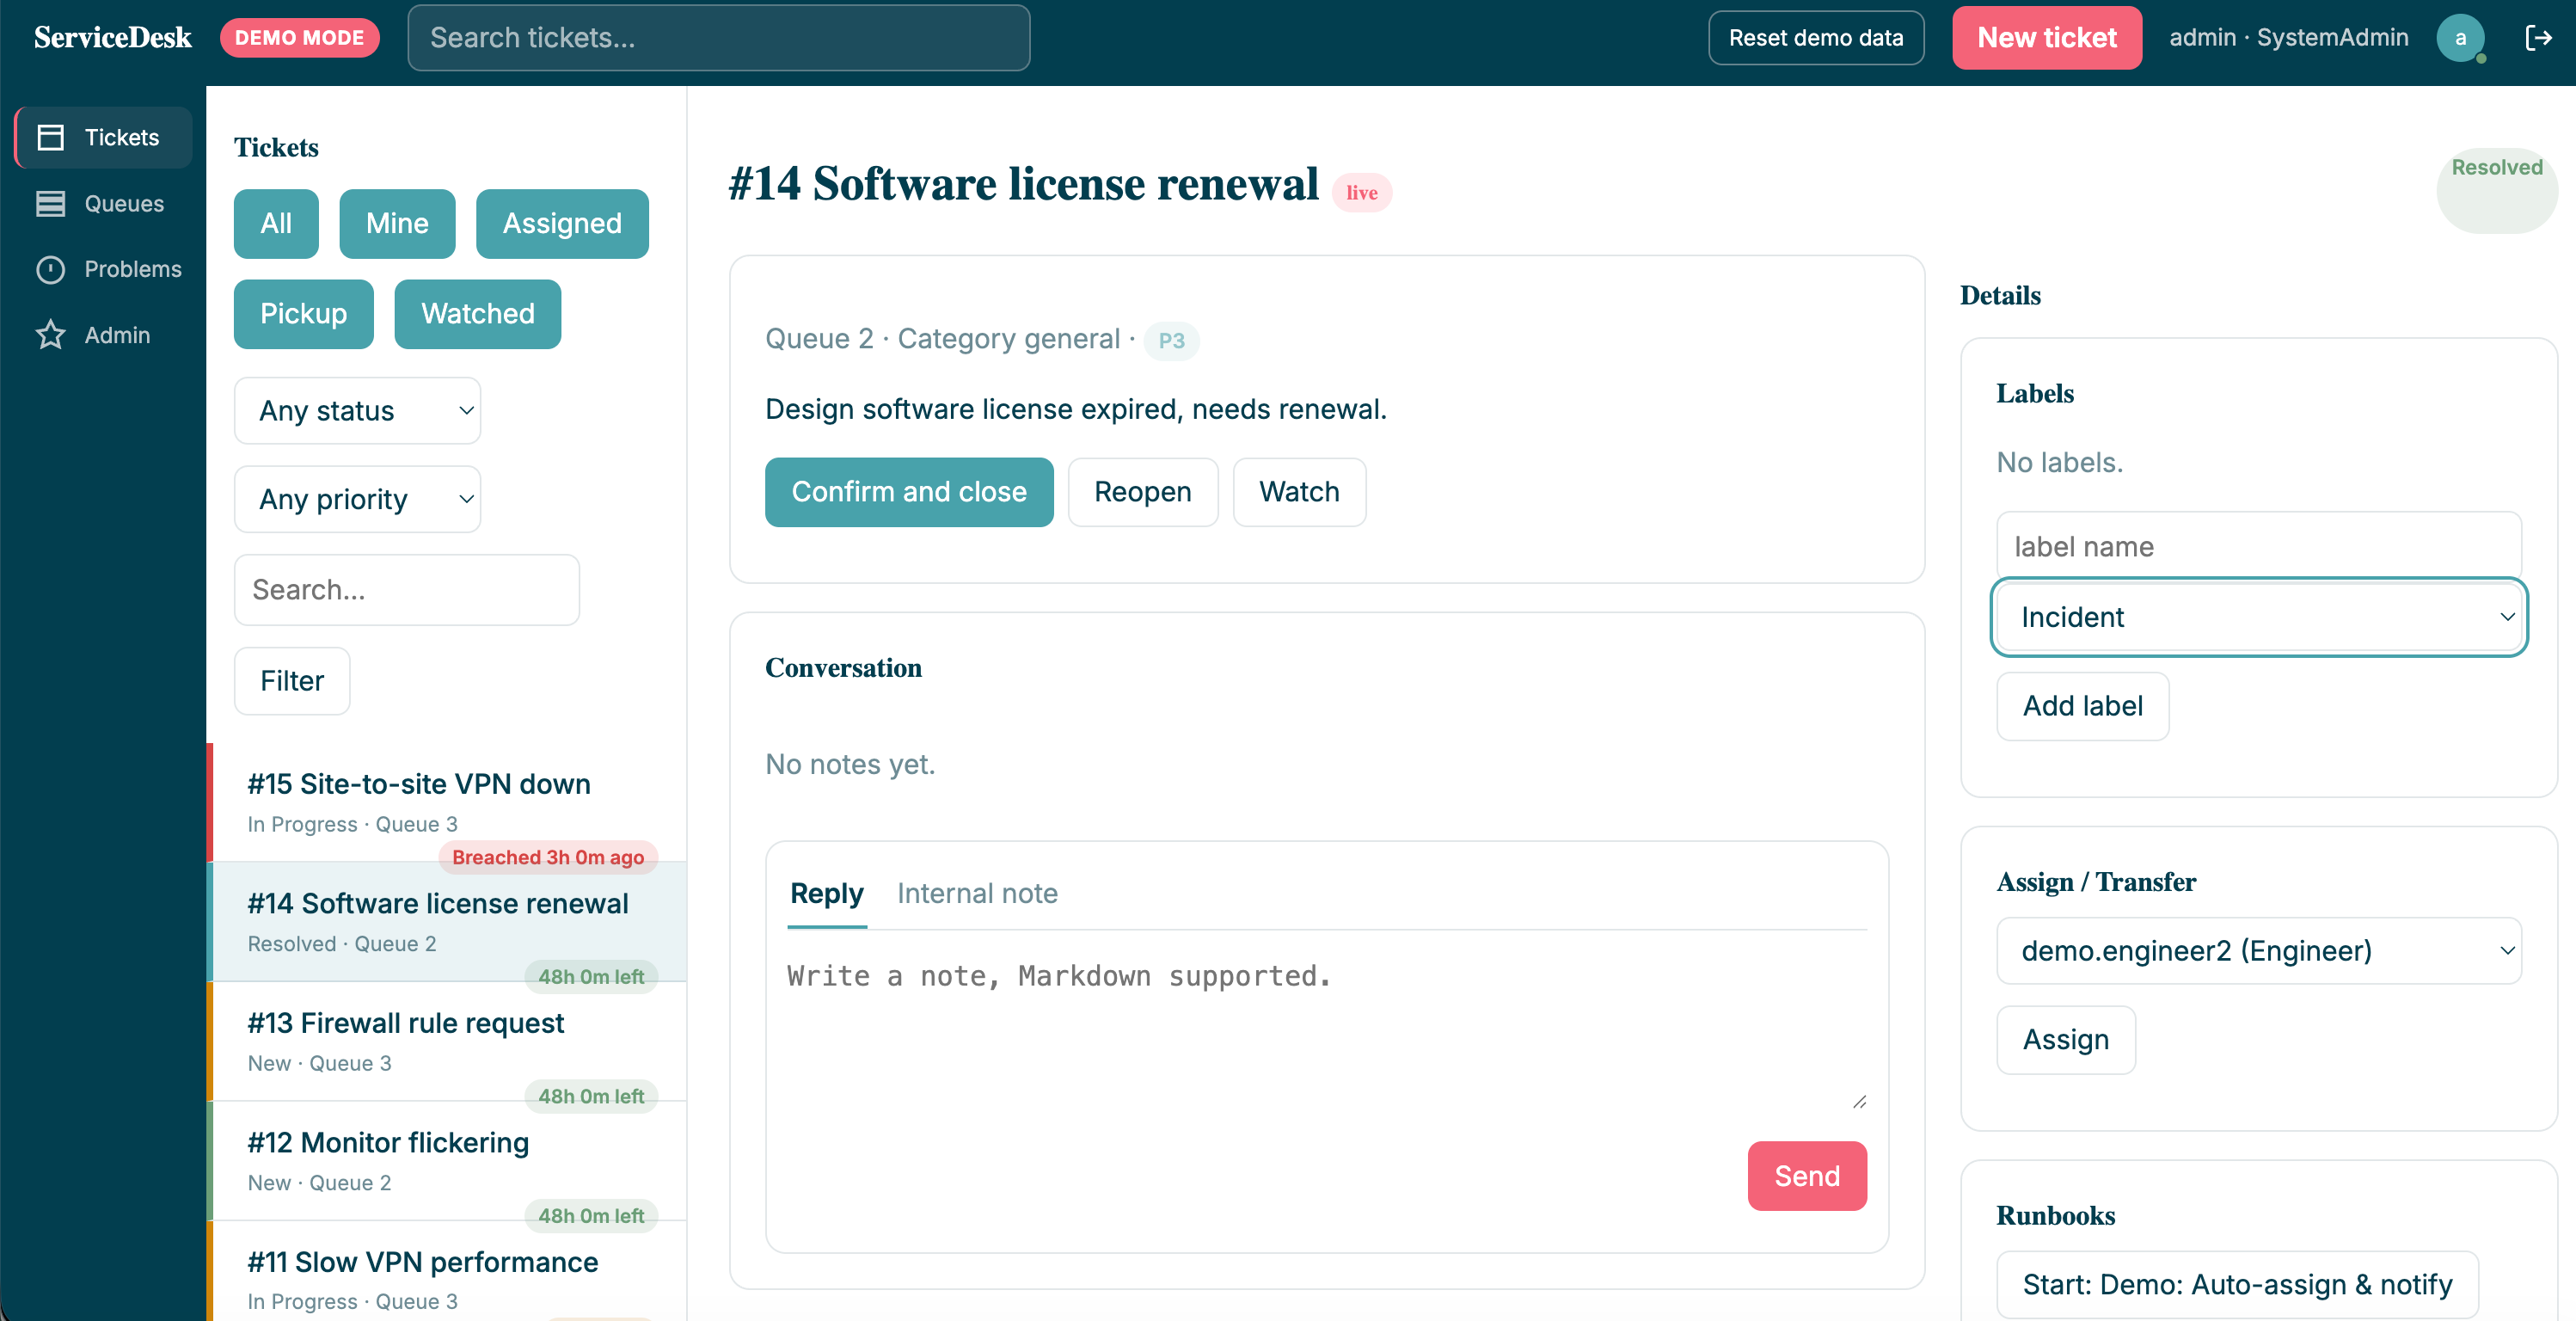
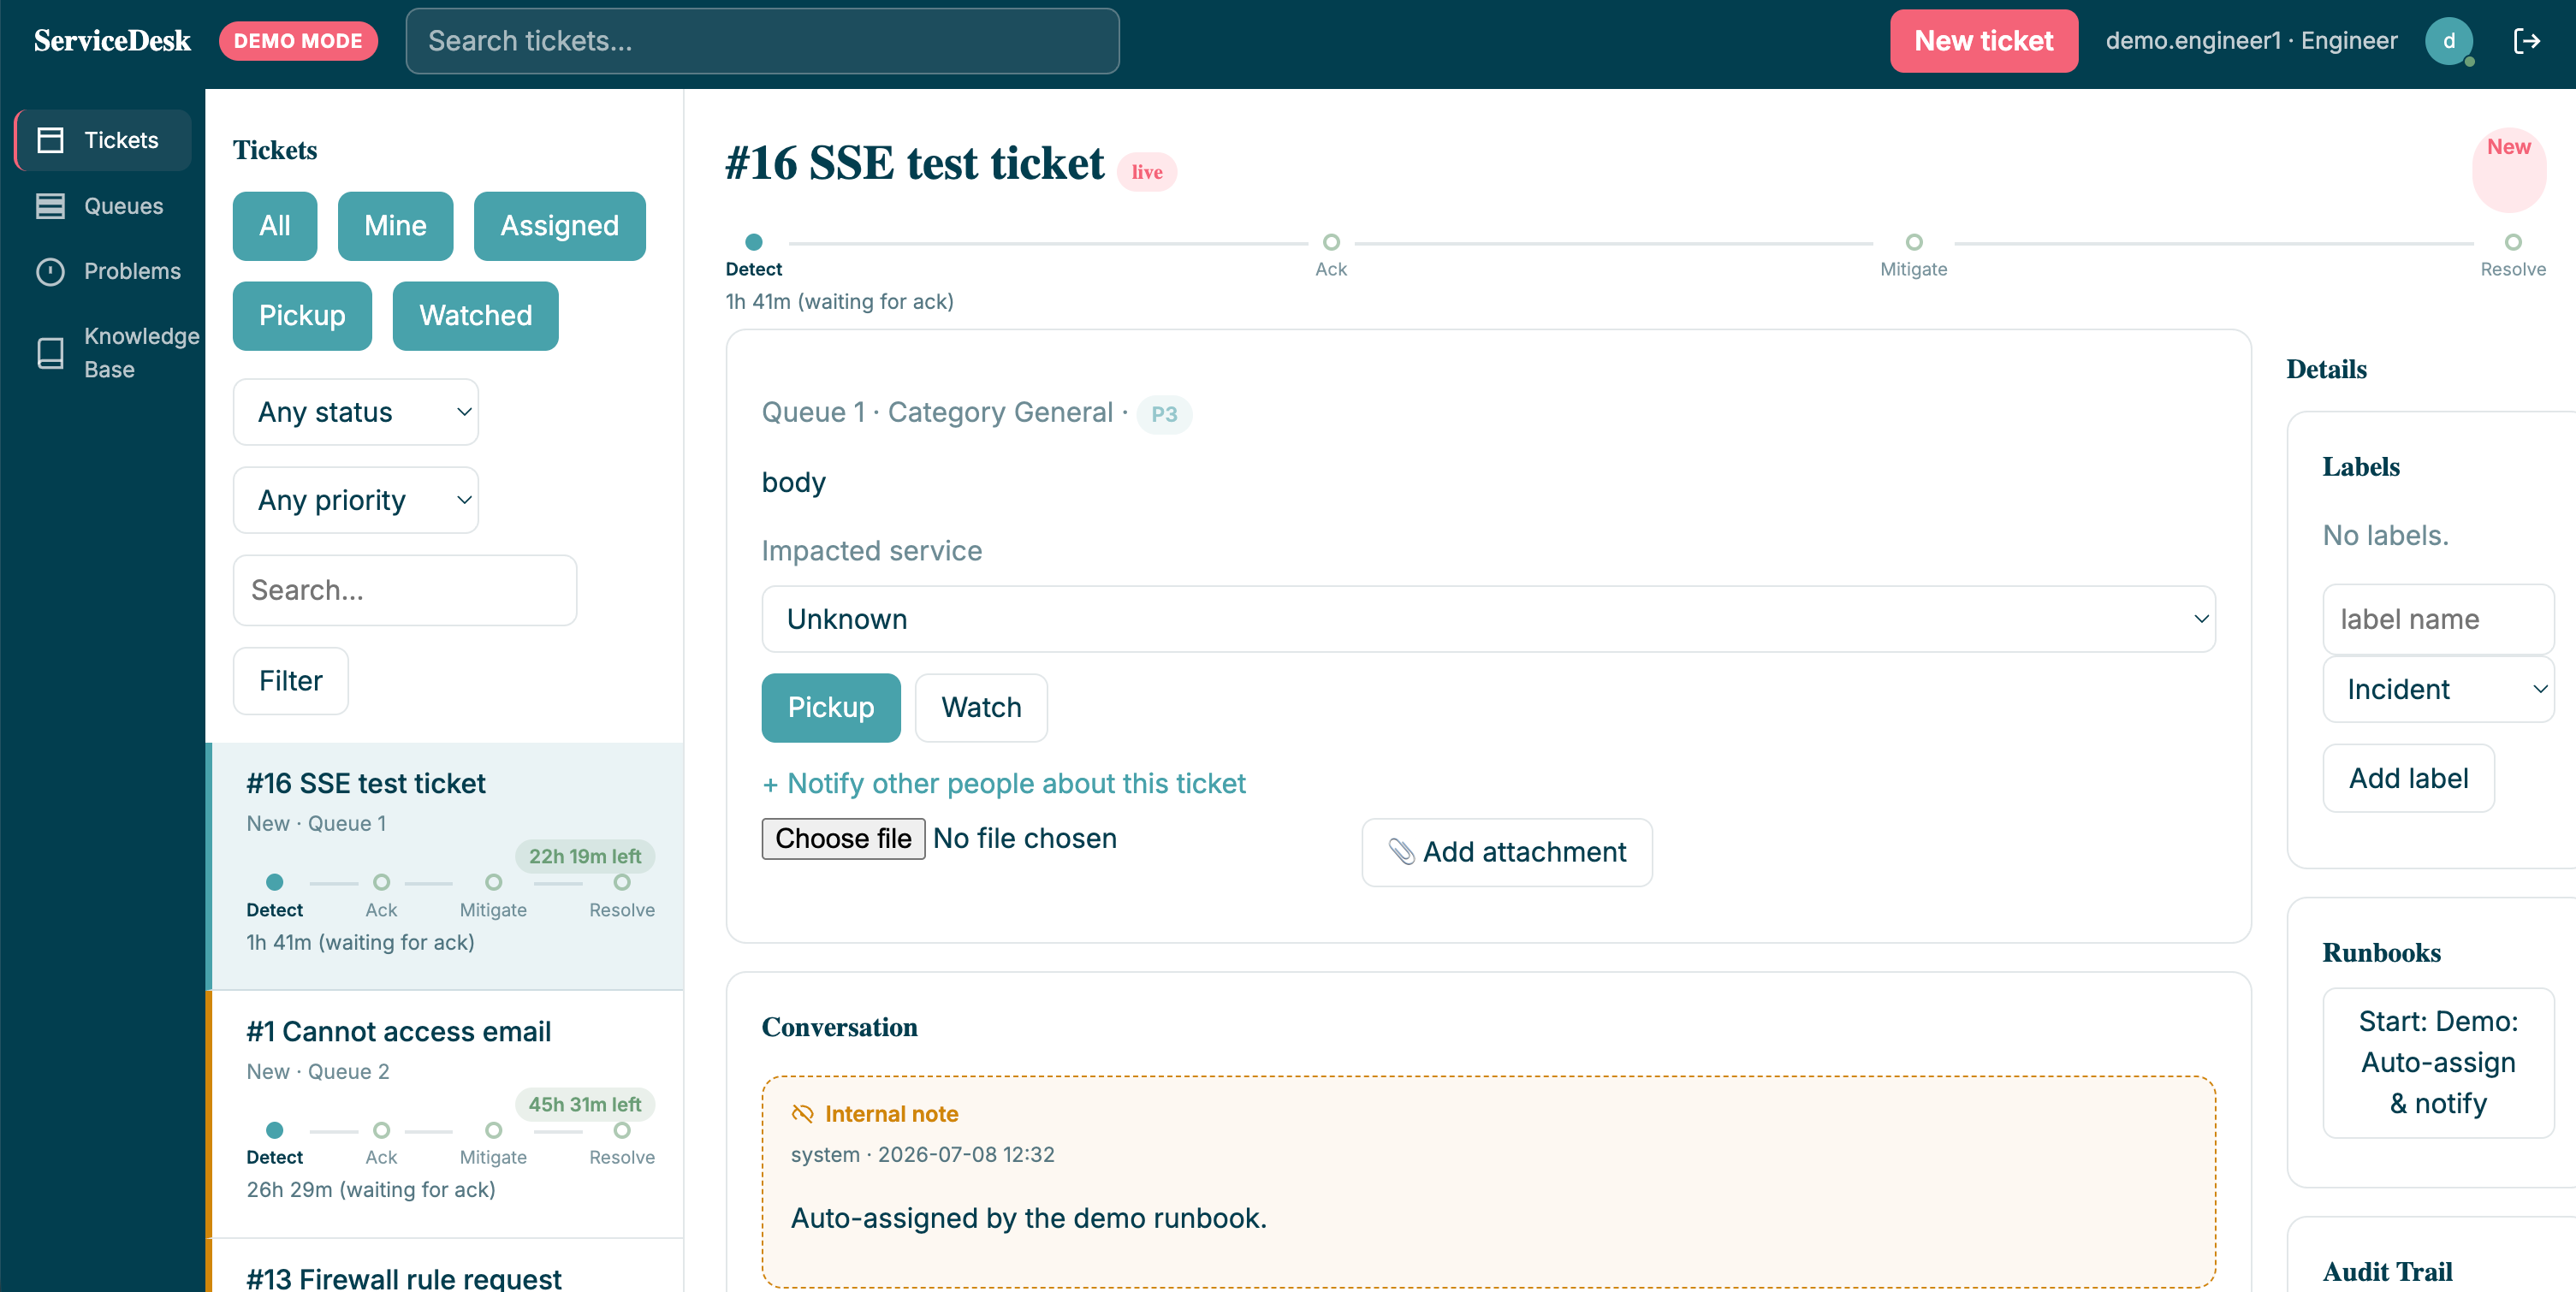
3.0.9 - Ctrl-C took 15s to kill the server once SSE actually worked

diff --git a/internal/sse/hub.go b/internal/sse/hub.go
@@ -22,6 +22,7 @@ type Message struct {
 type Hub struct {
 	mu          sync.Mutex
 	subscribers map[int64]map[chan Message]struct{}
+	closing     chan struct{}
 
 	watchers *repo.WatcherRepo
 	tickets  *repo.TicketRepo
@@ -30,9 +31,19 @@ type Hub struct {
 func NewHub(watchers *repo.WatcherRepo, tickets *repo.TicketRepo) *Hub {
 	return &Hub{
 		subscribers: make(map[int64]map[chan Message]struct{}),
+		closing:     make(chan struct{}),
 		watchers:    watchers,
 		tickets:     tickets,
 	}
+}
+
+// Close signals every active Handler stream to return immediately. http.Server.Shutdown
+// only waits for handlers to return on their own - it never cancels an in-flight request's
+// context - so a long-lived SSE connection would otherwise hold the drain open until the
+// caller's shutdown timeout expires (see RELEASE/v_3.0.9.md). Call this before
+// httpSrv.Shutdown so the drain returns as soon as streams notice, not after the timeout.
+func (h *Hub) Close() {
+	close(h.closing)
 }
 
 func (h *Hub) subscribe(userID int64) (chan Message, func()) {
@@ -108,6 +119,8 @@ func (h *Hub) Handler(w http.ResponseWriter, r *http.Request) {
 	for {
 		select {
 		case <-r.Context().Done():
+			return
+		case <-h.closing:
 			return
 		case <-ticker.C:
 			fmt.Fprint(w, ": keepalive\n\n")

diff --git a/cmd/servicedesk/main.go b/cmd/servicedesk/main.go
@@ -172,6 +172,11 @@ func main() {
 	<-ctx.Done()
 	log.Info("shutdown: signal received, draining connections")
 
+	// Unblock any live SSE streams before calling Shutdown: it only waits for handlers
+	// to return on their own and never cancels their request contexts, so open /events
+	// connections would otherwise hold the drain open for the full timeout below.
+	hub.Close()
+
 	shutdownCtx, shutdownCancel := context.WithTimeout(context.Background(), 15*time.Second)
 	defer shutdownCancel()
 	if err := httpSrv.Shutdown(shutdownCtx); err != nil {

diff --git a/RELEASE/v_3.0.9.md b/RELEASE/v_3.0.9.md
@@ -1,0 +1,23 @@
+# v3.0.9 — Ctrl-C took 15s to kill the server once SSE actually worked
+
+Theme: side effect of the v3.0.7 fix. Once `GET /events` stopped 500ing on every connection, an open browser tab holding a live SSE stream turned a previously-instant `Ctrl-C` into a 15-second hang.
+
+## Root cause
+
+`http.Server.Shutdown` stops accepting new connections and waits for active handlers to return on their own — it never cancels an in-flight request's context. `sse.Hub.Handler` blocks in a `select` keyed on `r.Context().Done()`, which only fires when the client disconnects. Before v3.0.7, SSE 500'd instantly so no long-lived connection ever existed to hold the drain open; after that fix, any open tab keeps the handler alive, so `main.go`'s `httpSrv.Shutdown(shutdownCtx)` blocks for the full 15s timeout, logs `context deadline exceeded`, and only then exits. Repeated `^C` during the drain is a no-op — `signal.NotifyContext` funnels every SIGINT into the same context, there's no force-quit path.
+
+## Fixed
+
+- `internal/sse/hub.go`: `Hub` gained a `closing` channel and a `Close()` method that closes it. `Handler`'s `select` loop now also returns on `<-h.closing`.
+- `cmd/servicedesk/main.go`: calls `hub.Close()` immediately after the shutdown signal is received and before `httpSrv.Shutdown`, so every live stream returns on its own instead of waiting out the timeout.
+
+## Verification
+
+- `make vet test` clean.
+- Live: started the binary, logged in as `demo.admin`, held a `curl -N /events` connection open, sent `SIGTERM` to the server. Shutdown completed in ~5ms (down from the full 15s timeout + `context deadline exceeded` error beforehand).
+
+## Also this cycle (doc housekeeping, no code)
+
+- `CLAUDE.md`: dropped the `make bump` mention from the Makefile target list and from the "before ending a task" checklist — `VERSION` is edited directly now.
+- `ARCHITECTURE.md`: new "Shutdown" section documenting the `r.Context().Done()` gotcha for any future long-lived streaming handler.
+- `images/servicedesk.png` updated (screenshot refresh, unrelated to this fix).

diff --git a/ARCHITECTURE.md b/ARCHITECTURE.md
@@ -40,6 +40,10 @@ Two independent poll loops run per process (`cmd/servicedesk/main.go` spawns `cf
 
 Both `ProcessOne()` methods are exported specifically so integration tests can call them synchronously instead of racing a timer (`internal/httpapi/integration_test.go` does this for the Runbook and webhook tests).
 
+## Shutdown
+
+`cmd/servicedesk/main.go` calls `httpSrv.Shutdown(shutdownCtx)` on SIGINT/SIGTERM, capped at a 15s timeout. `Shutdown` never cancels an in-flight request's context — it only stops accepting new connections and waits for active handlers to return on their own. Any handler that blocks on `r.Context().Done()` in a loop (the SSE stream in `internal/sse/hub.go`'s `Handler`) only unblocks when the client disconnects, so a single open `/events` connection holds the drain open for the full timeout otherwise. `Hub.Close()` closes a `closing` channel the handler also selects on, and `main.go` calls it right before `httpSrv.Shutdown` so streams return immediately instead of waiting it out (see RELEASE/v_3.0.9.md). Any future long-lived streaming handler needs the same treatment — don't rely on `r.Context().Done()` alone to be canceled at shutdown.
+
 ## Multi-database support
 
 `internal/db/db.go` picks a GORM dialector (`sqlite`/`mysql`/`postgres`) and runs `AutoMigrate` against the structs in `internal/models`. GORM handles placeholder style and generated-ID retrieval uniformly; the repo layer only branches by dialect for the handful of things GORM can't express — see [DESIGN/06](DESIGN/06_design_technical_architecture.md) §6.3 for the specifics (full-text search, `next_run_at` as Unix epoch, MySQL index-length on `TEXT` columns).

diff --git a/CLAUDE.md b/CLAUDE.md
@@ -53,7 +53,6 @@ up-postgres / down-postgres  Start/stop the PostgreSQL-backed stack
 k8s-apply / k8s-delete       Apply/delete the k8s/ manifests
 k8s-logs       Tail logs from the servicedesk deployment in k8s
 version        Print the version currently in VERSION
-bump           Rewrite the VERSION file (VERSION=x.y.z required)
 tag            Create and push a git tag for the current VERSION
 release        Bump, commit, tag, push - triggers GitHub Actions (VERSION=x.y.z required)
 ```
@@ -62,7 +61,7 @@ release        Bump, commit, tag, push - triggers GitHub Actions (VERSION=x.y.z 
 
 **If a change touches `web/static/js` or a vendored frontend library, `go test`/`curl` smoke-testing it is not enough** — neither one executes client-side JS, so a bug purely in `app.js` or a vendored bundle (a markdown editor that never actually mounts, an SSE stream that silently never delivers) looks completely fine from the server side: the HTML is correct, the mount point is right there in the markup, nothing server-side ever fails. Two bugs exactly like this shipped unnoticed until a live user hit them (RELEASE/v_3.0.6.md, RELEASE/v_3.0.7.md). Verify with an actual browser executing the page: `make demo` in one terminal, then drive it headlessly with Playwright's Python bindings (already available on this machine as the system Python's `playwright` package, not an npm one — invoke via `/opt/homebrew/opt/python@3.12/bin/python3.12`, `sync_playwright()`, `page.on("pageerror", ...)` to catch JS exceptions the rendered HTML would never reveal).
 
-**Before ending a task**: if the change affects behavior, update the relevant doc(s) — [DESIGN.md](DESIGN.md)/[DESIGN/](DESIGN/) if it changes *what*/*why* the system does something, [ARCHITECTURE.md](ARCHITECTURE.md) if it changes *how* the code is organized or adds a durable gotcha future work should know about, and always [RELEASE.md](RELEASE.md) (newest entry first) + a new `RELEASE/v_x.y.z.md` for what shipped. Bump [VERSION](VERSION) (`make bump VERSION=x.y.z`) alongside it. Don't wait to be asked for each one separately. Then close out with a 1-line git commit message summarizing the change (the user commits it themselves — don't run `git commit` unless explicitly asked).
+**Before ending a task**: if the change affects behavior, update the relevant doc(s) — [DESIGN.md](DESIGN.md)/[DESIGN/](DESIGN/) if it changes *what*/*why* the system does something, [ARCHITECTURE.md](ARCHITECTURE.md) if it changes *how* the code is organized or adds a durable gotcha future work should know about, and always [RELEASE.md](RELEASE.md) (newest entry first) + a new `RELEASE/v_x.y.z.md` for what shipped. Don't wait to be asked for each one separately. Then close out with a 1-line git commit message summarizing the change (the user commits it themselves — don't run `git commit` or `git bump` unless explicitly asked).
 
 ## CI/CD
 

diff --git a/RELEASE.md b/RELEASE.md
@@ -7,6 +7,7 @@ Newest first.
 | Version | Theme | Status |
 | :--- | :--- | :--- |
 | [v3.1.0](RELEASE/v_3.1.0.md) | Larger initiatives (needs design pass) | Not started |
+| [v3.0.9](RELEASE/v_3.0.9.md) | Graceful shutdown hung 15s once SSE actually worked | Built — see file for exact scope |
 | [v3.0.8](RELEASE/v_3.0.8.md) | Favicon | Built — see file for exact scope |
 | [v3.0.7](RELEASE/v_3.0.7.md) | Live ticket updates were completely dead (SSE middleware `http.Flusher` gap) | Built — see file for exact scope |
 | [v3.0.6](RELEASE/v_3.0.6.md) | Markdown editor was never actually mounting (wrong vendored Toast UI Editor build) | Built — see file for exact scope |